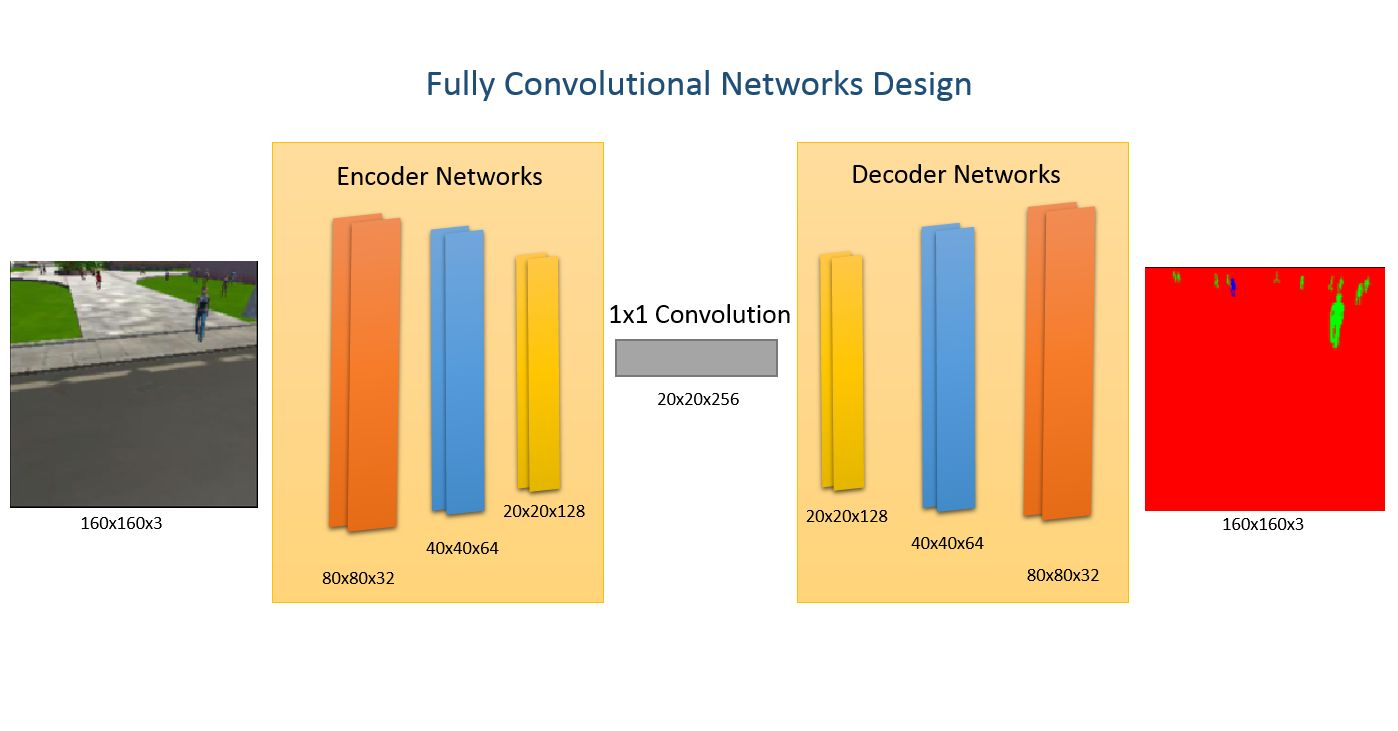
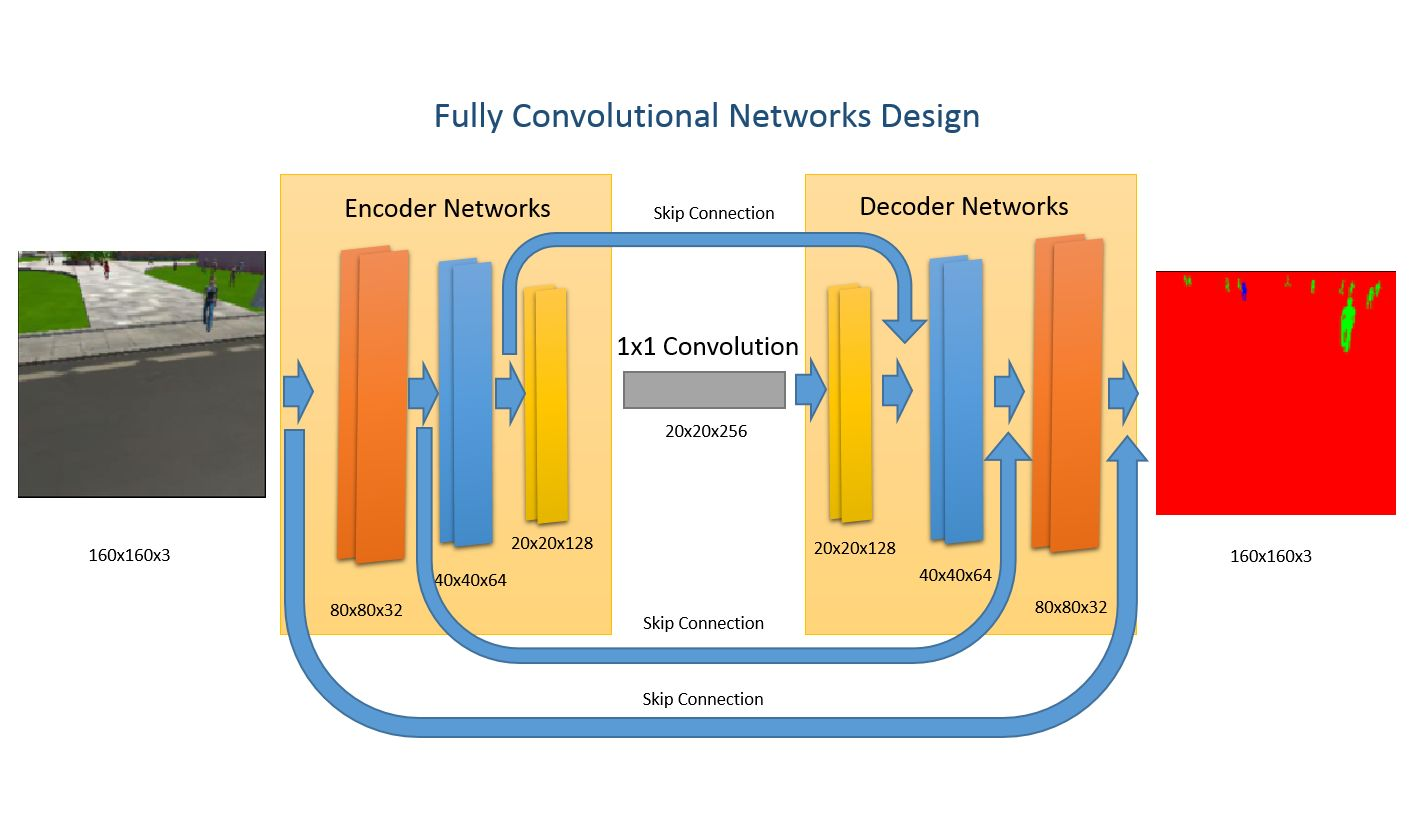
Edit Readme

Changed region(s): [[0.0, 0.0903, 1.0, 0.933]]

diff --git a/README.md b/README.md
@@ -189,9 +189,23 @@ In this learning project, I didn't record train, validation and sample_evaluatio
        <td align="left"> 322 images + 322 masks</td></tr>
 </tbody></table>
 
-# The Design Network Model
+# FCN Layers
+
+In this project, there are seven layers to build a fully convolutional networks (FCN). Three layers for encoder, one layers as one by one convolutional matrix and another three layers as decoder block. See image below:
 
 <p align="center"> <img src="./docs/misc/FCN Design.jpg"> </p>
+
+* The first layer is encoder block layer which have input from image. This layer have filter width 32 and 2 strides.
+* The second layer is encoder block layer which have input from first layer. This layer have filter width 64 and 2 strides.
+* The third layer is encoder block layer which have input from second layer. This layer have filter with width 128 and build from 2 strides.
+* The fourth layer is 1x1 convolution layer using convolution 2D batch normalize.
+* The fifth layer is decoder block layer which have input from 1x1 convolution layer and skip connection from second layer.
+* The sixth layer is decoder block layer which have input from fifth layer and skip connection from the first layer.
+* The last layer is decoder block layer which have input from sixth layer and skip connection from input image. The last layer is an output layer of FCN. This layer have the dimension as same as input image.
+
+Explanations about building the code for FCN Design above would be explain in Build the Model section below
+
+## TODO Code
 
 # Test the model that have been created in the quadcopter simulator
 
